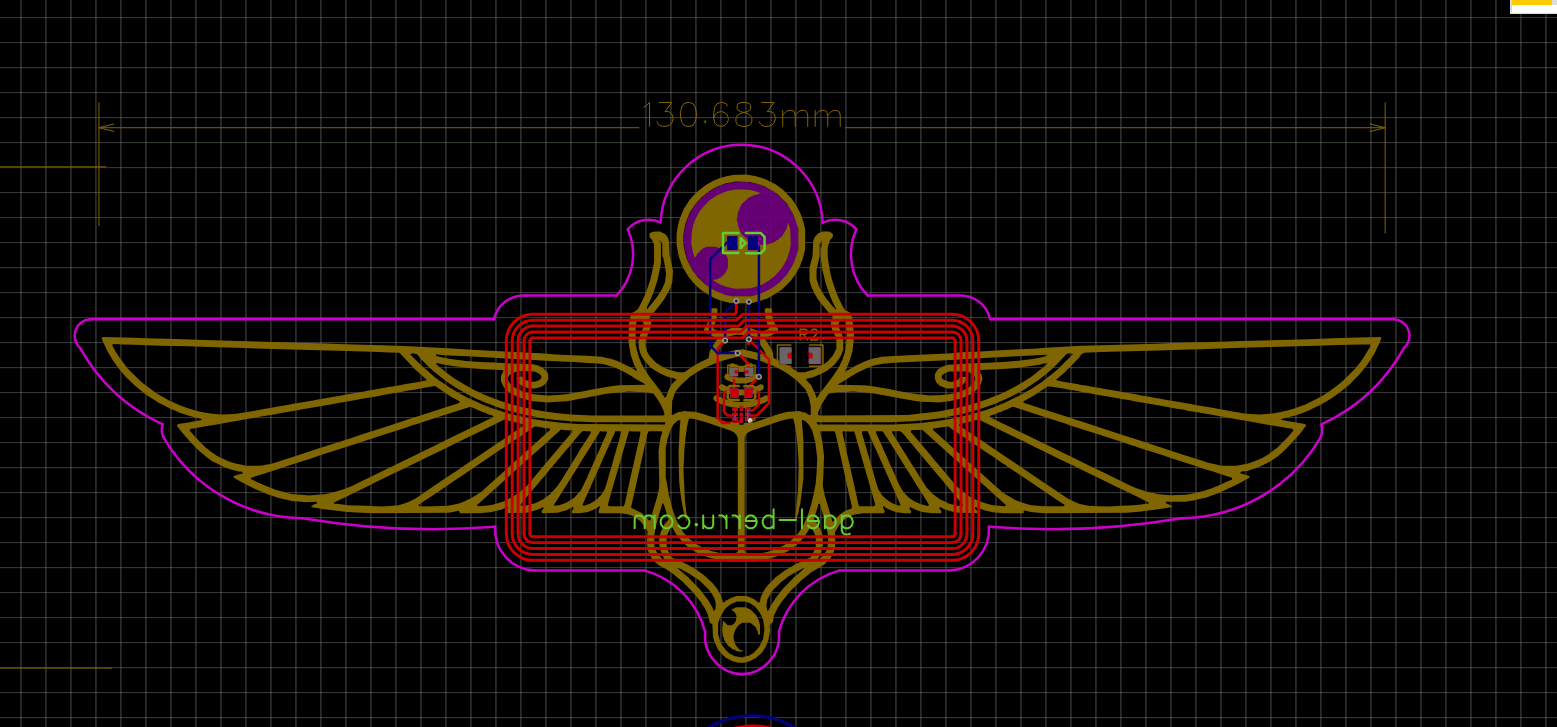
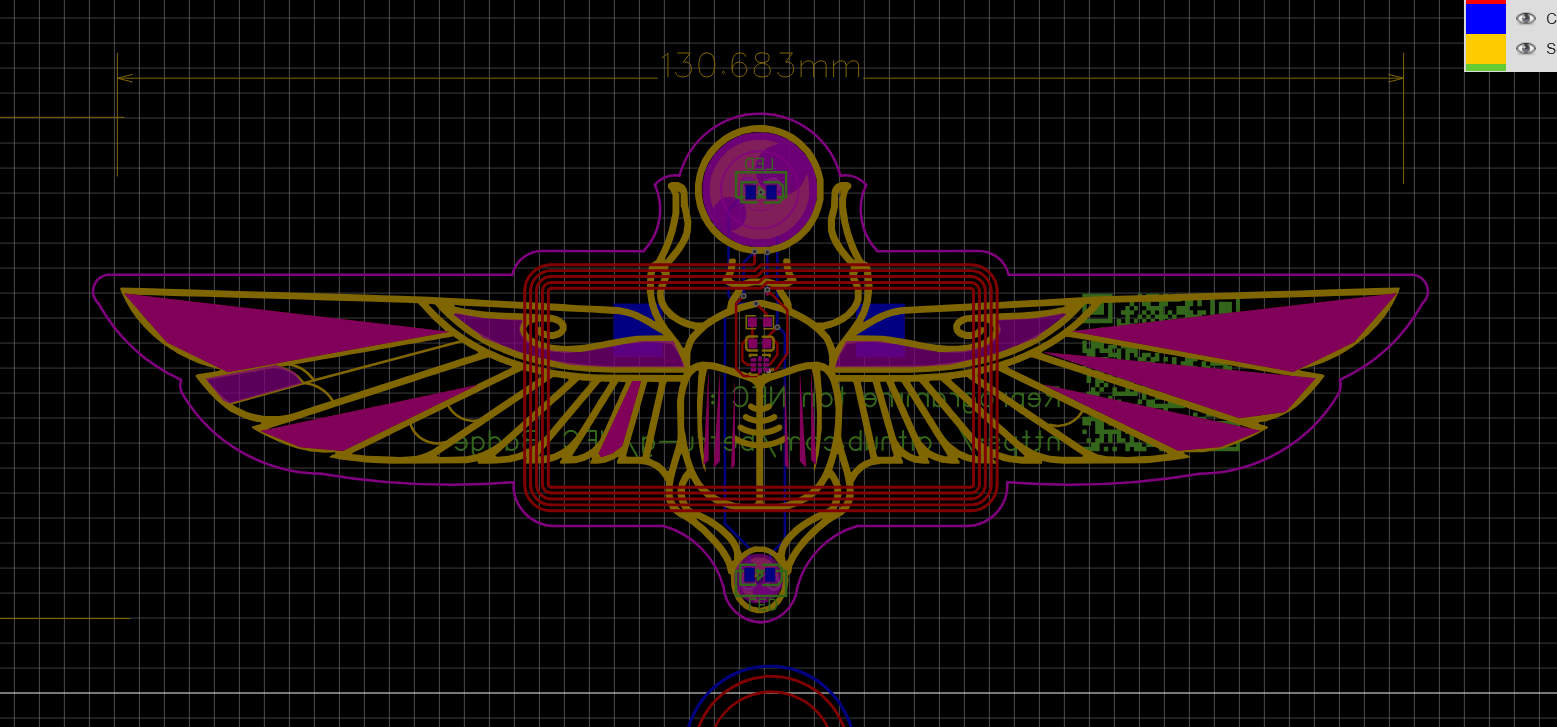
img

diff --git a/readme.md b/readme.md
@@ -13,7 +13,7 @@
 ![Badge NFC](./img/Scarabe-nfc-broche.png)
     **création d'une broche**
 
-![Badge NFC](./img/NFC_Scarabe_fonctionnel_V_pro.png)
+![Badge NFC](./img/PCB-scarabe-3D.png)
     **Version Color full avec la version pro**
 
 
